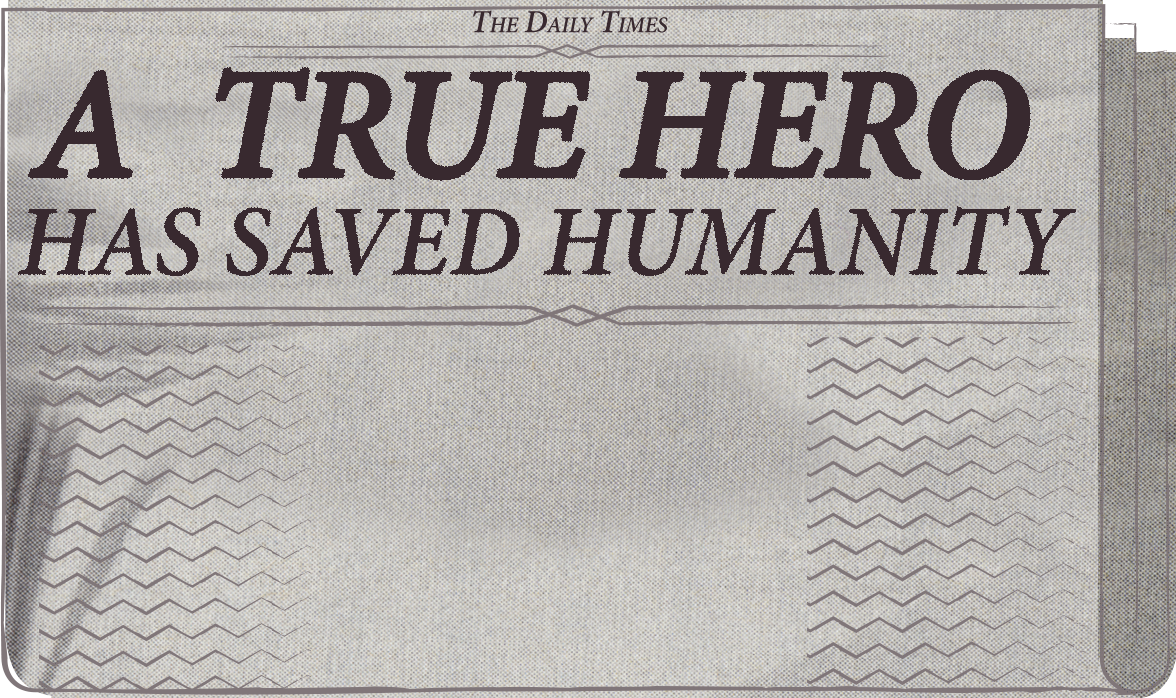
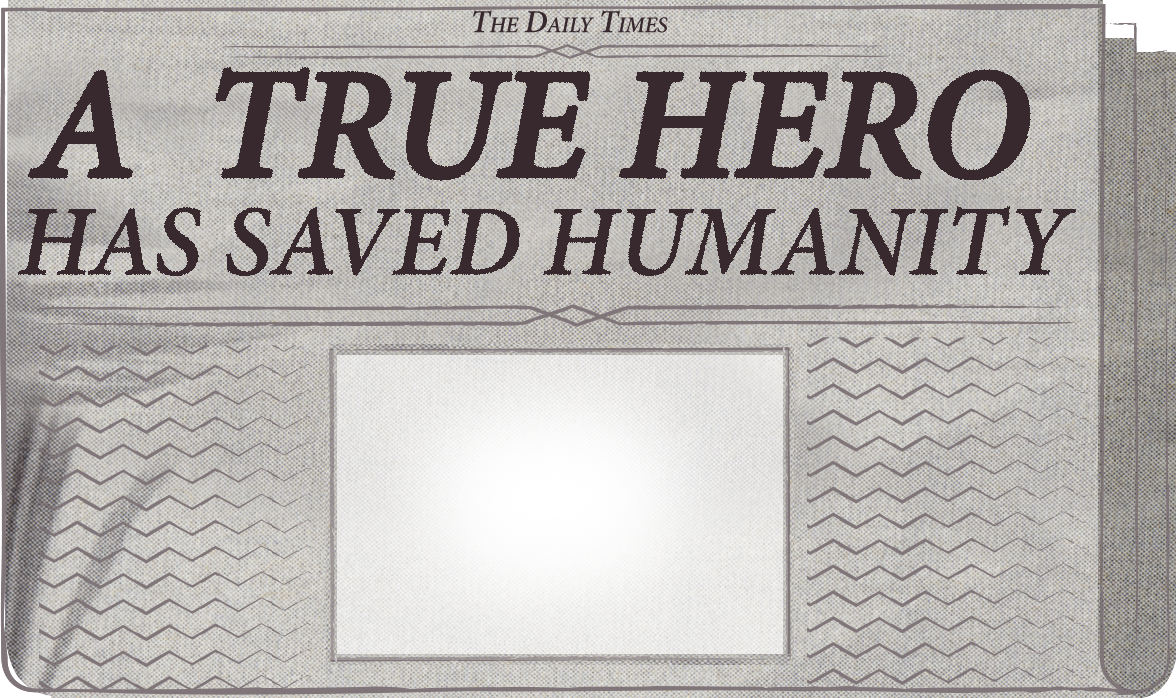
fixed newspaper alignment

Changed region(s): [[0.2755, 0.4814, 0.6735, 0.9628]]

diff --git a/SuperHero_v8/ble_js/public/sketch.js b/SuperHero_v8/ble_js/public/sketch.js
@@ -171,7 +171,7 @@ var sprite1Total = 58;
 var roveBothax, roveBothay, roveBothbx, roveBothby, wiggleaway, scn6Bgsprites;
 var randomScene6bg = 1;
 var canvas, capture, mycam, button, img;
-var newspaperImage;
+var newspaperImage, newspaperImage3;
 var rotateDiv;
 var Scene6counter = 0;
 var newspaperRotate = 0;
@@ -293,7 +293,7 @@ function dearEarthVO() {
 
 function preload() {
 
-  img = loadImage('assets/newspaper.png');
+  // img = loadImage('assets/newspaper.png');
   //scene6 sprites
   for (var i = 0; i < sprite1Total; i++) { //load all the image names
     if (i < 10) { //for 1 digit ones, add the zero
@@ -394,9 +394,6 @@ function setup() {
   back2Button.parent(scene6buttons).class('class6').addClass('scene6buttons').id('playbutton');
   back3Button.parent(scene6buttons).class('class6').addClass('scene6buttons').id('playbutton');
   back5Button.parent(scene6buttons).class('class6').addClass('scene6buttons').id('playbutton');
-  // savePhotoButton = createButton('Save This Photo!').class('class6').addClass('scene6buttons').id('playbutton');
-  // savePhotoButton.position(700, 209).class('class6');
-  // savePhotoButton.mousePressed(savePicture);
   retakePhotoButton = createButton('Retake Photo').class('class6').addClass('scene6buttons').id('playbutton');
   retakePhotoButton.class('class6').addClass('scene6buttons').parent(scene6buttons);
   retakePhotoButton.mousePressed(function() {
@@ -424,8 +421,16 @@ function setup() {
   videoInput.size(575, 340);
   videoInput.position(575, 330);
   videoInput.hide();
+  var newsRandom = floor(random(0,1.9));
+  if (newsRandom == 0){
+    console.log('newspaper is 0')
   newspaperImage = createImg('assets/newspaper2.png');
   newspaperImage.class('class6').parent(rotateDiv).id('scene6newspaper');
+  } else {
+       console.log('newspaper is 1')
+   newspaperImage = createImg('assets/newspaper3.png');
+  newspaperImage.class('class6').parent(rotateDiv).id('scene6newspaper');
+  }
 
 
 
@@ -484,14 +489,14 @@ function setup() {
 
   changeScene(1);
 
-  // serial2 = new p5.SerialPort(); // make a new instance of the serialport library
+  serial2 = new p5.SerialPort(); // make a new instance of the serialport library
 
-  // serial2.on('connected', serverConnected); // callback for connecting to the server
-  // serial2.on('open', portOpen); // callback for the port opening
-  // serial2.on('data', serialEvent); // callback for when new data arrives
-  // serial2.on('error', serialError); // callback for errors
+  serial2.on('connected', serverConnected); // callback for connecting to the server
+  serial2.on('open', portOpen); // callback for the port opening
+  serial2.on('data', serialEvent); // callback for when new data arrives
+  serial2.on('error', serialError); // callback for errors
 
-  // serial2.open(portName); // open a serial port
+  serial2.open(portName); // open a serial port
 } ///SETUP ENDS
 
 function restartAllCounters() {
@@ -851,7 +856,7 @@ function draw() {
 
 
     }
-    if (AllScenesMPH > 512) { //hitting turbo
+    if (AllScenesMPH > 520) { //hitting turbo
       for (var l = 0; l < 12; l++) {
         torus = createMesh(new THREE.TorusGeometry(37, 4, 10, 6, Math.PI * 2));
         torus.position.z = (camZ - 500) + (l * 30);
@@ -901,6 +906,7 @@ function draw() {
     }
 
   } else if (scene6 == true) {
+    videoInput.position(windowWidth/2 - 200, (windowHeight/2) +650);
     roveBothax = cos(millis() / 10) * 7;
     roveBothay = sin(millis() / 10) * 7;
     roveBothbx = sin(millis() / 10) * 7;
@@ -1410,7 +1416,7 @@ function getSpeed() {
 
   CamSpeed = range1 + range2 + range3 + range4 + range5 + range6;
   if (frameCount % 15 == 0) {
-    AllScenesMPH = round(map(CamSpeed, 0, 25, 0, 650));
+    AllScenesMPH = round(map(CamSpeed, 0, 25, 0, 600));
   }
   if (range2hit == false) {
     range2 = range2 - 0.06 * decreasemult;

diff --git a/SuperHero_v8/ble_js/public/scene5.js b/SuperHero_v8/ble_js/public/scene5.js
@@ -828,11 +828,12 @@ $(document).ready(function() {
 
         webGLRenderer.setClearColor(bgcolor, 1);
         bgcolor = "rgb(" + rmapped + "," + gmapped + "," + bmapped + ")";
-
+if (trees.length == 100){
         for (var j = 0; j < 100; j++) {
-          // trees[j].rotation.y = trees[j].rotation.y + .1;
-          // trees[j].position.y = camY;
+          trees[j].rotation.y = trees[j].rotation.y + .1;
+          trees[j].position.y = randomIntFromInterval(camY-200,camY+200);
         }
+}
 
         //point cloud///////////////////
 

diff --git a/SuperHero_v8/ble_js/public/scene5.css b/SuperHero_v8/ble_js/public/scene5.css
@@ -4,7 +4,7 @@
 }
 #timerStopWatch {
   position: absolute;
-  left: 1650px;
+  left: -150px;
   top: -20px;
   z-index: 90;
 }
